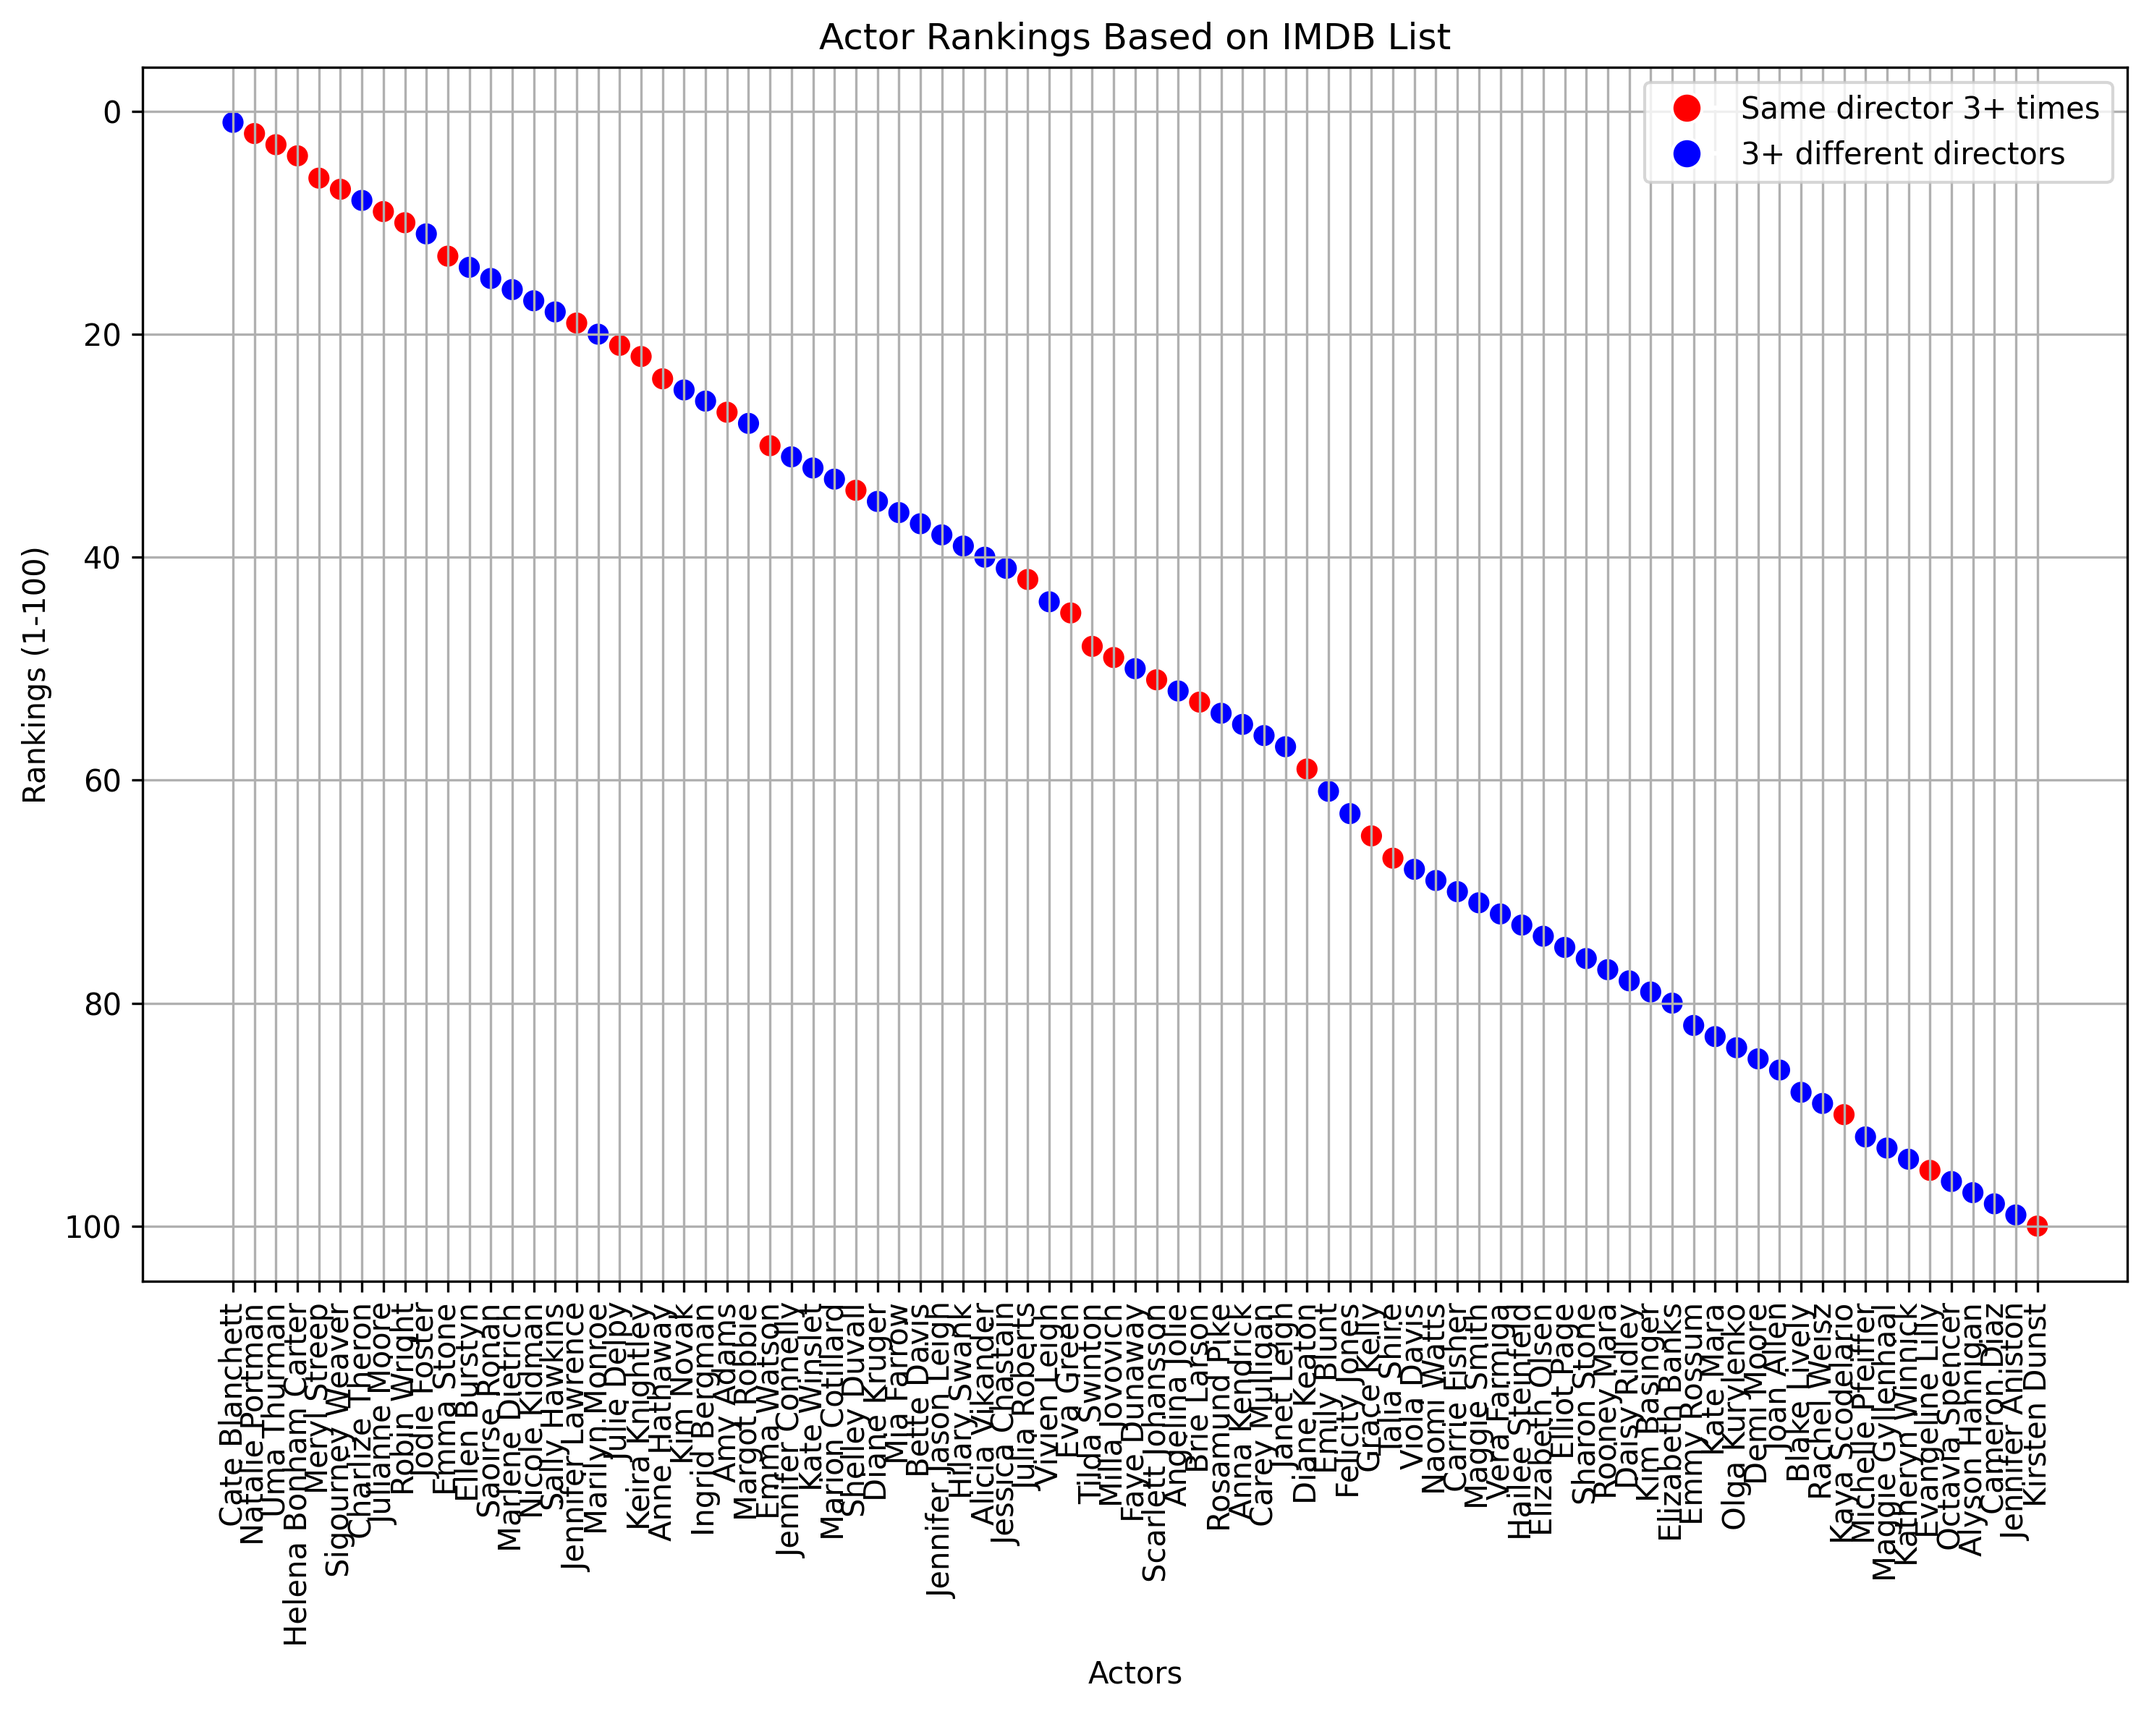
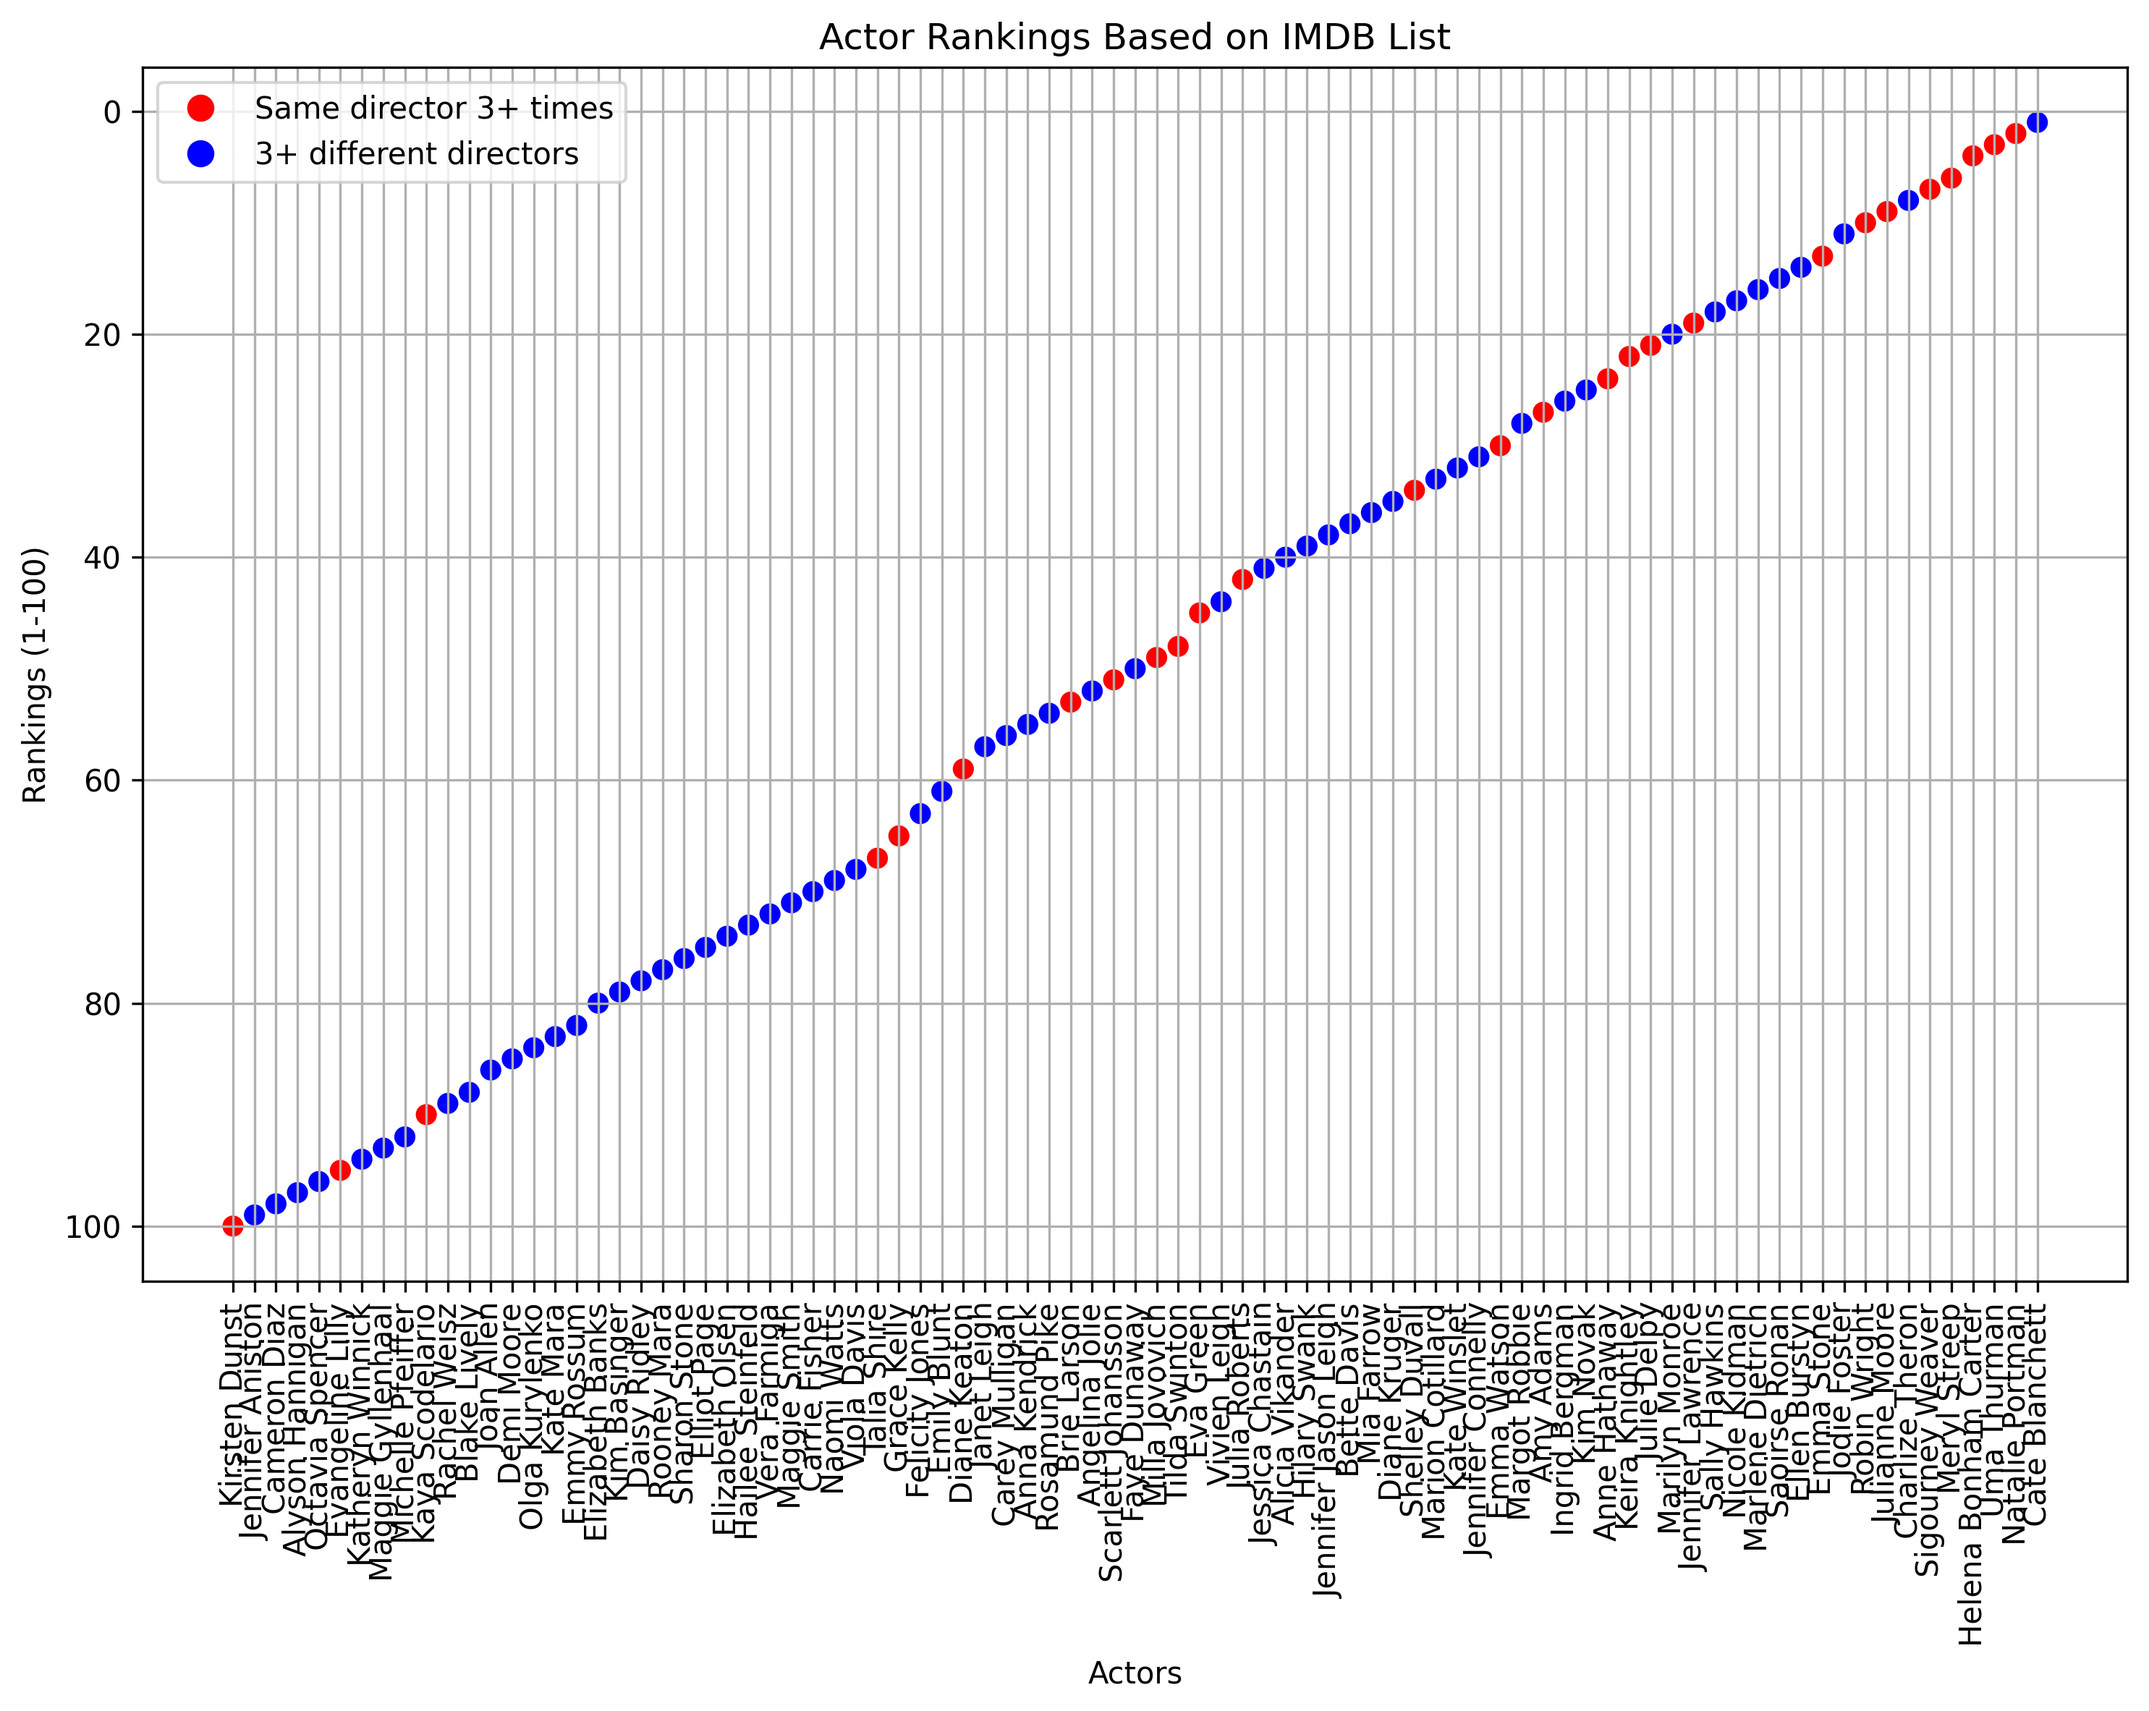
Shelly's Request

diff --git a/Final Project/2- Director Star Connection/Shellys_Request.py b/Final Project/2- Director Star Connection/Shellys_Request.py
@@ -23,7 +23,7 @@ actors_different_directors = director_actor_count.groupby('Cast')['Director'].nu
 actors_different_directors = actors_different_directors[actors_different_directors >= 3].index.tolist()
 
 # Step 5: Load the text file containing the IMDB list and rankings
-file_path_txt = './data/data.txt'
+file_path_txt = 'data/IMDB_top_100_actors.txt'
 with open(file_path_txt, 'r', encoding='utf-8') as file:
     imdb_actor_list = file.readlines()
 
@@ -51,13 +51,17 @@ actors_different_directors_df = pd.DataFrame({'Actor': list(actors_in_common_blu
 actors_same_director_df.to_csv('./output/shellys_request/actors_same_director_common.csv', index=False)
 actors_different_directors_df.to_csv('./output/shellys_request/actors_different_directors_common.csv', index=False)
 
-# Step 8: Prepare the data for the plot using the rankings from the "data.txt" file
+# Step 8: Prepare the data for the plot using the rankings from the "IMDB_top_100_actors.txt" file
 sorted_actors = sorted(actor_rankings.items(), key=lambda x: x[1])
 x_labels, y_values = zip(*sorted_actors)
 
 # Filter to include only actors that are in the common lists (Red or Blue)
 x_labels = [actor for actor in x_labels if actor in actors_in_common_red.union(actors_in_common_blue)]
 y_values = [actor_rankings[actor] for actor in x_labels]
+
+# Reverse the order of x_labels and y_values to make names ordered from right to left
+x_labels = x_labels[::-1]
+y_values = y_values[::-1]
 
 # Determine the colors based on the list membership
 colors = ['red' if actor in actors_in_common_red else 'blue' for actor in x_labels]
@@ -81,8 +85,6 @@ plt.legend(handles=[
     plt.Line2D([0], [0], marker='o', color='w', markerfacecolor='red', markersize=10, label='Same director 3+ times'),
     plt.Line2D([0], [0], marker='o', color='w', markerfacecolor='blue', markersize=10, label='3+ different directors')
 ])
-
-# Save the plot as an image
 
 
 # Show the plot
